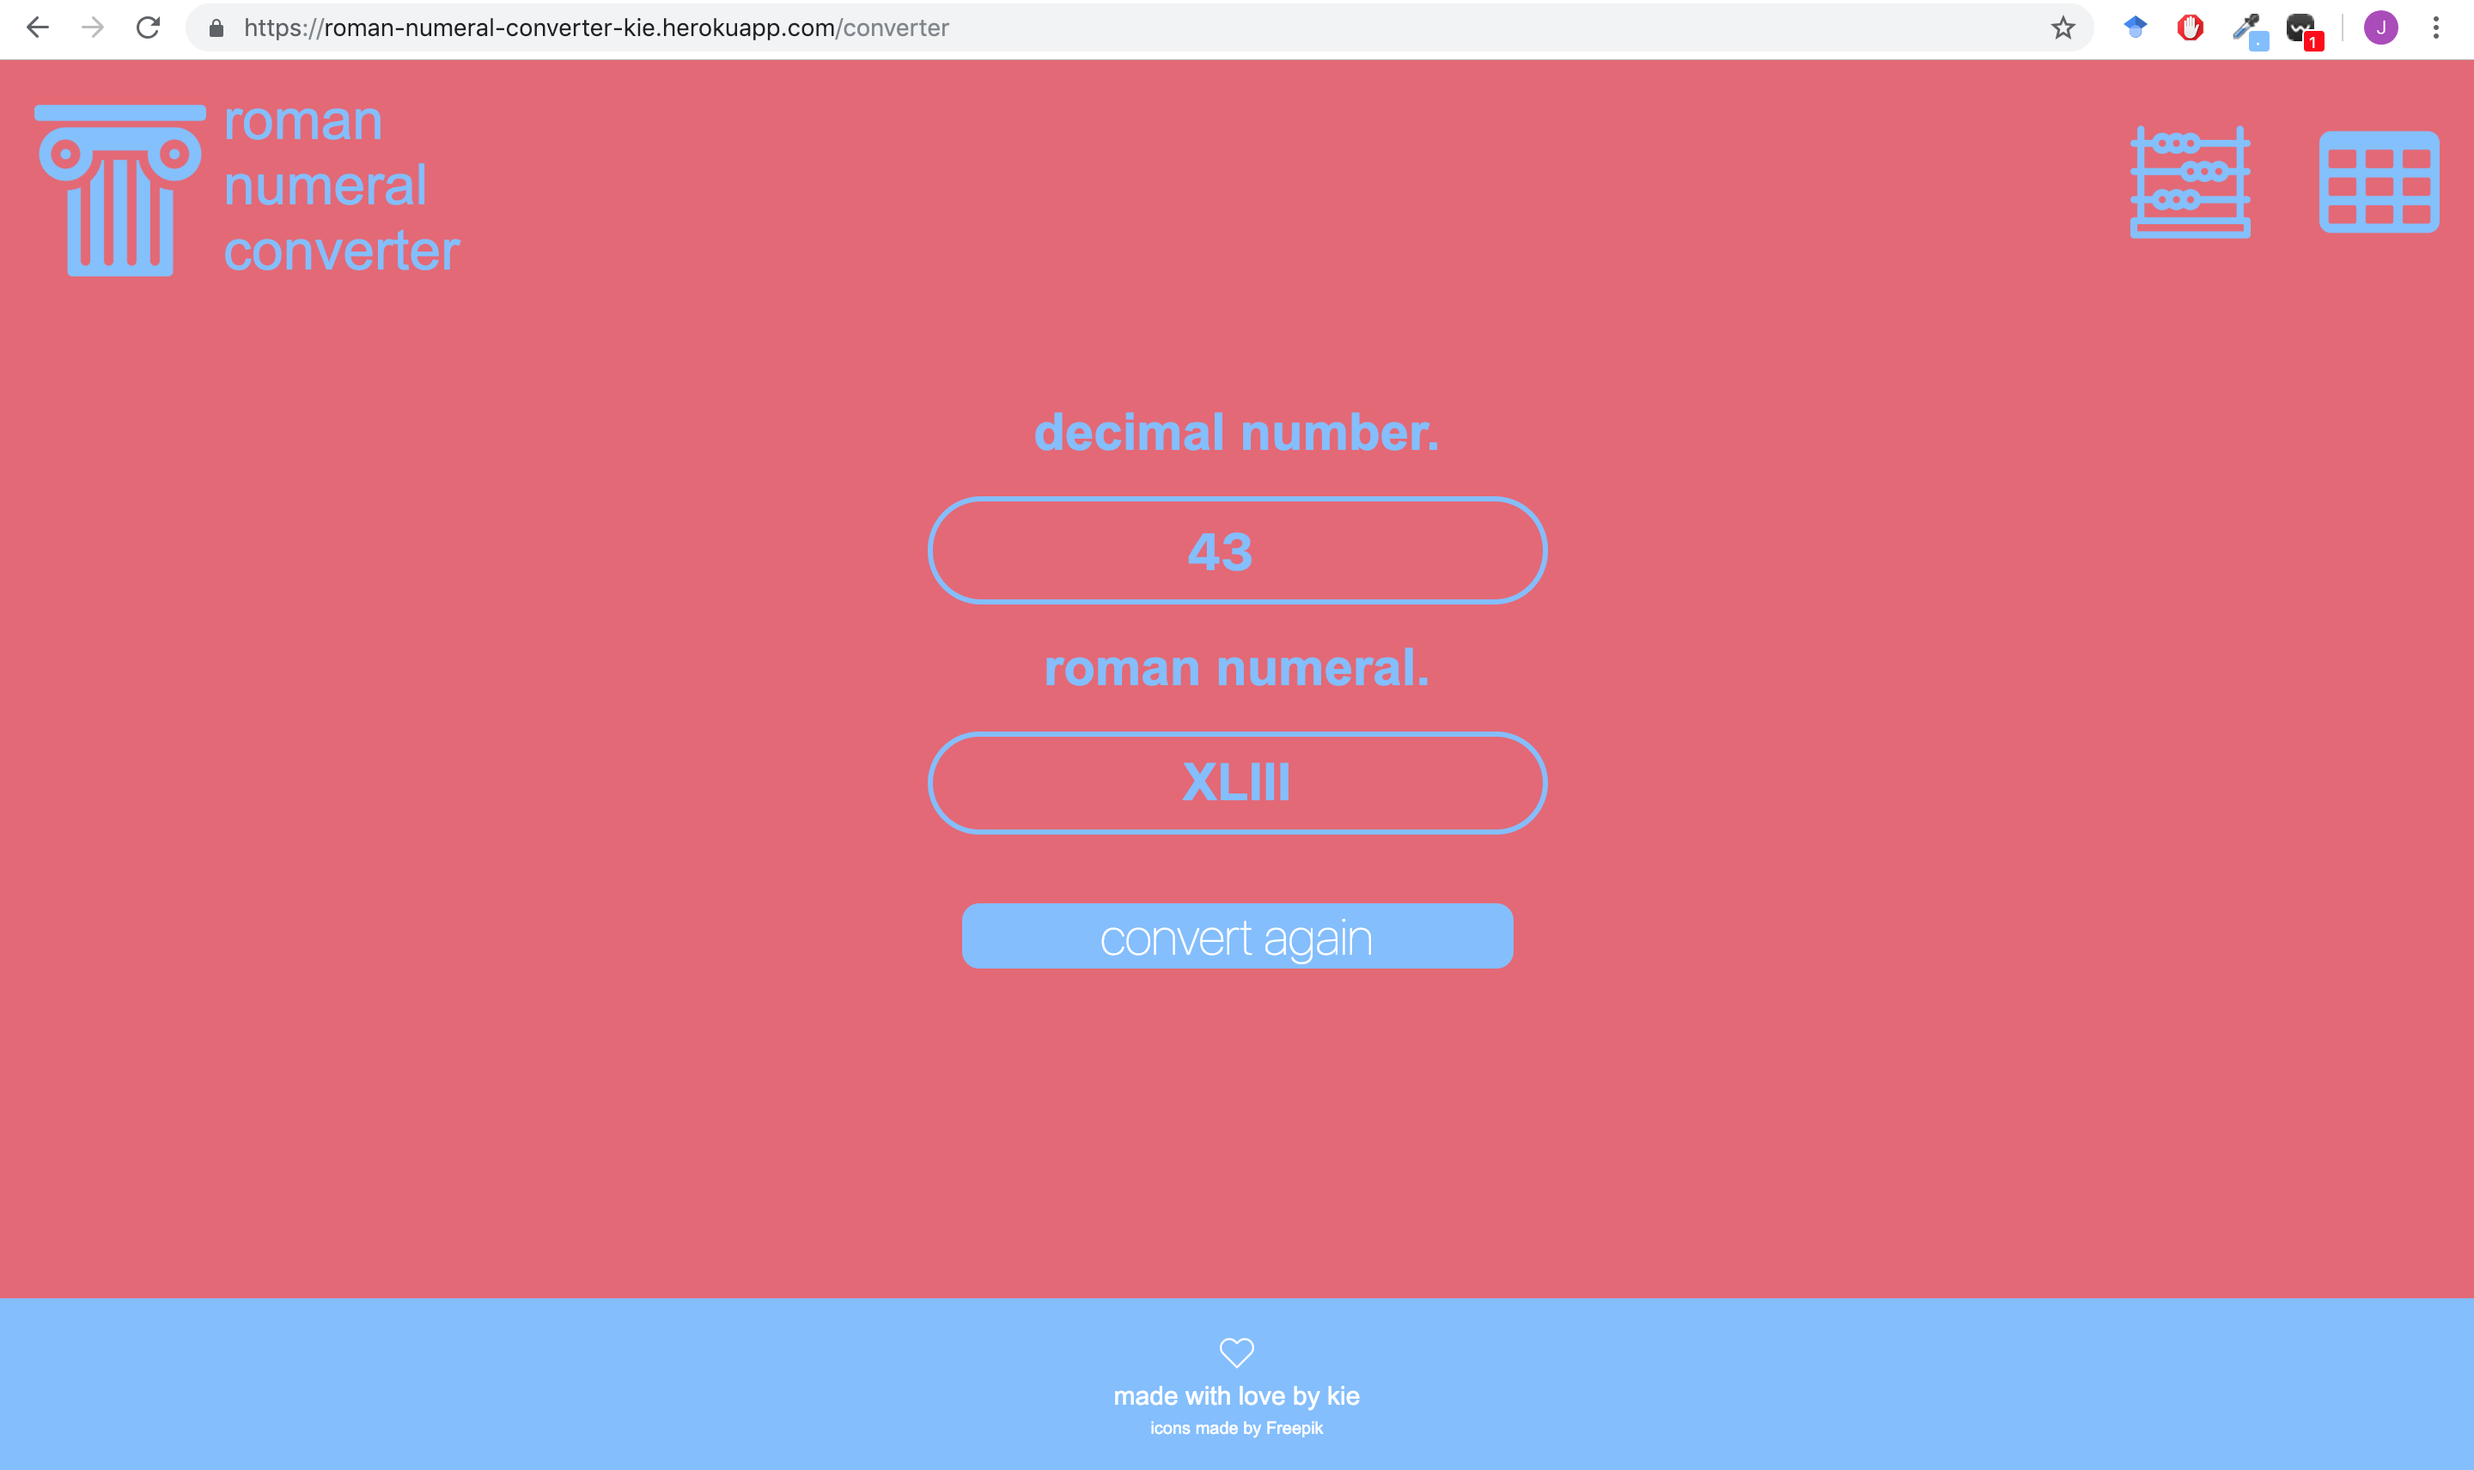
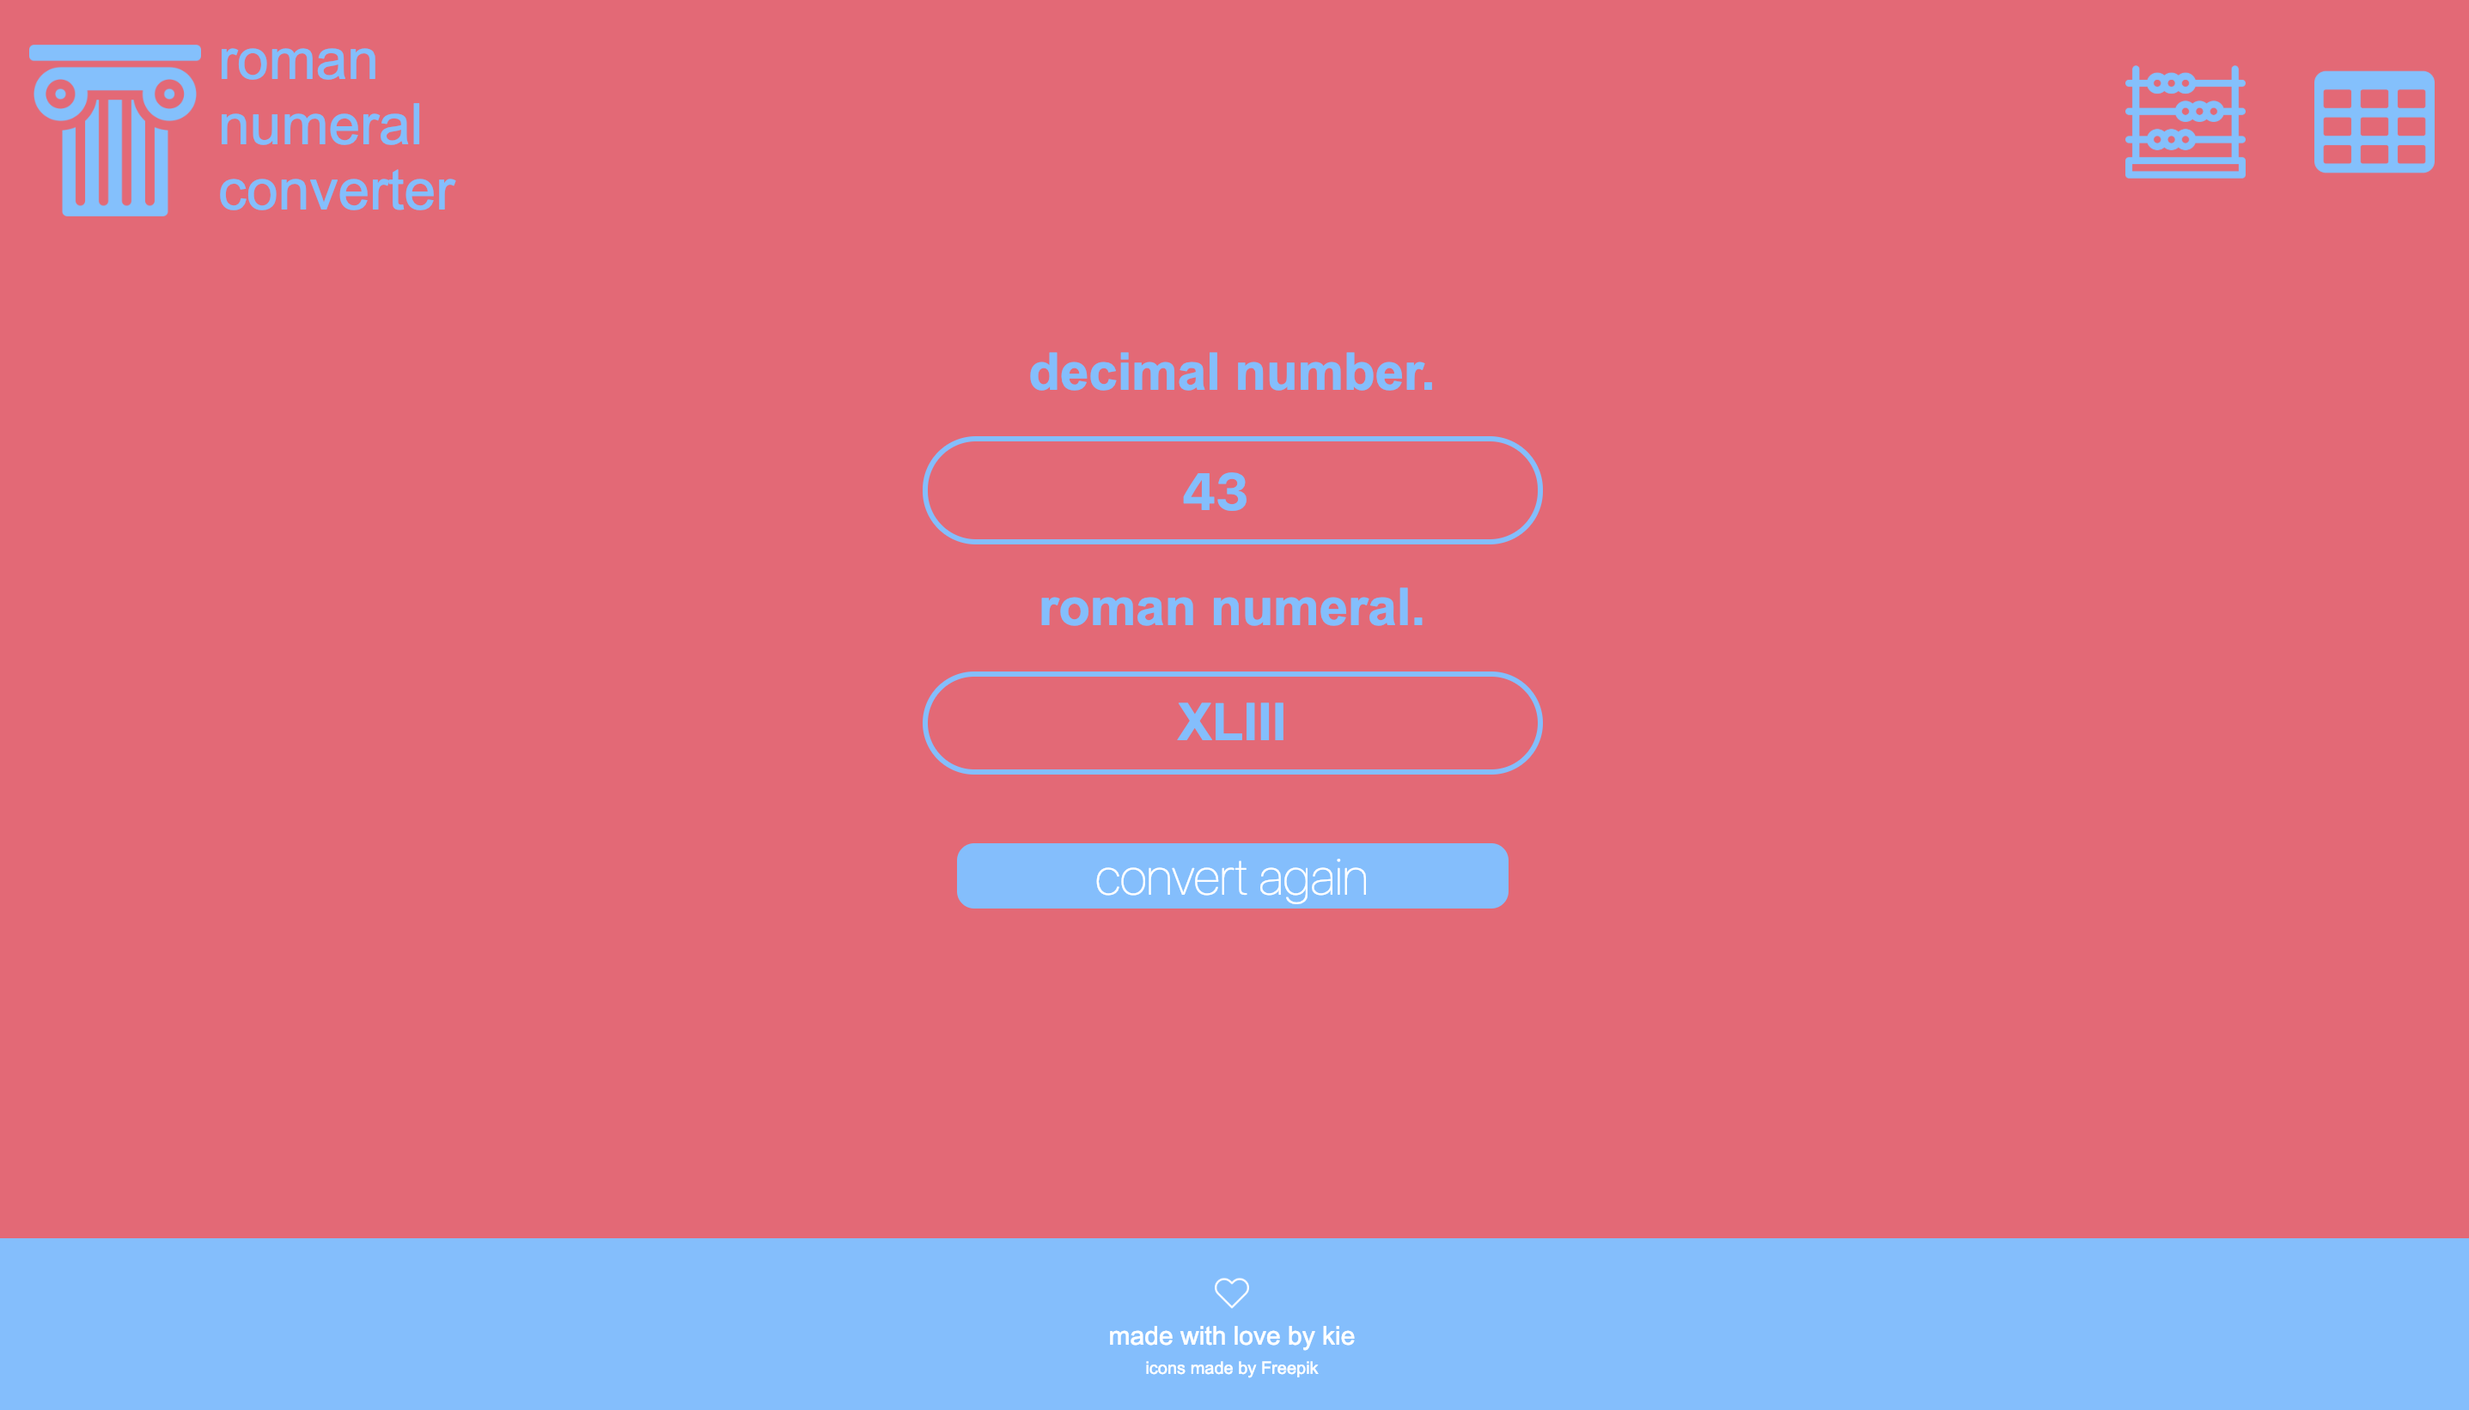
fixed css layout

diff --git a/public/style.css b/public/style.css
@@ -4,14 +4,14 @@ header {
   justify-content: space-between;
 }
 img.logo {
-  width:100px;
-  height:100px;
+  width:80px;
+  height:80px;
   padding: 10px;
   padding-bottom: 0px;
   }
 img.nav-img {
-  width:70px;
-  height:70px;
+  width:60px;
+  height:60px;
   padding: 20px;
 }
 img.nav-img:hover {
@@ -30,7 +30,7 @@ img.nav-img:hover {
 .logo-text-line {
   margin: 0px;
   text-align: left;
-  font-size: 33px;
+  font-size: 27px;
   font-weight: lighter;
 }
 .right {
@@ -46,7 +46,6 @@ body {
 a {
   text-decoration: none;
   color: inherit;
-
 }
 h1 {
   font-family: arial;
@@ -66,7 +65,7 @@ div.content {
   flex-direction: column;
   align-items: center;
   justify-content: center;
-  padding: 50px;
+  padding: 90px;
 }
 div.enter {
   padding: 20px;
